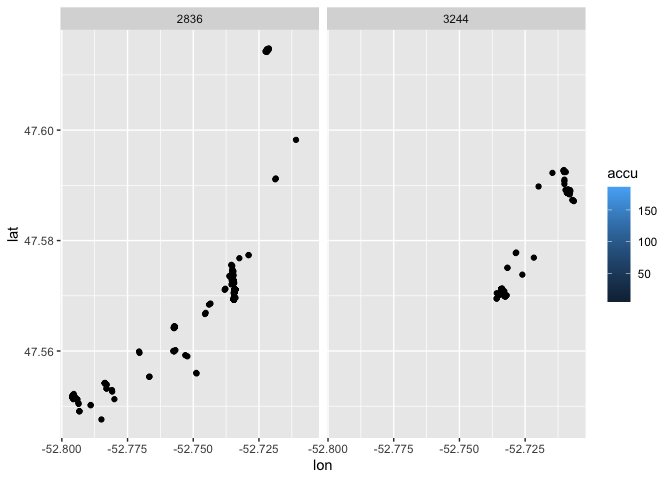
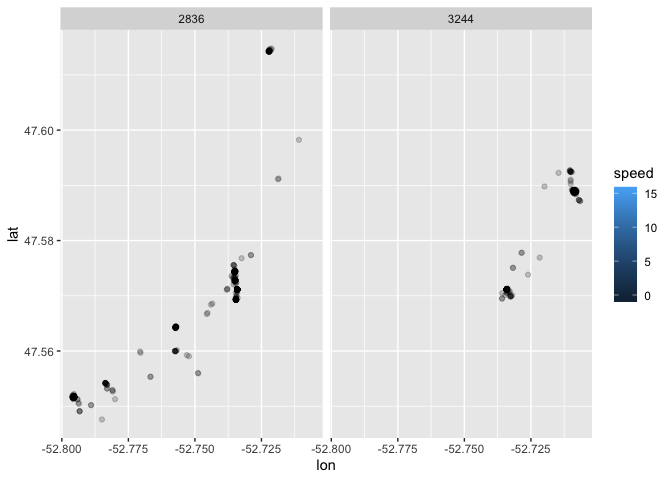
Final push

diff --git a/README.md b/README.md
@@ -1,1 +1,43 @@
-# gps_accel_ispah_2021
+# Workshop at the ISPAH 2021 Conference
+
+### Authors
+ 
+Daniel Fuller | Kevin Stanley | Christine Voss | Meghan Winters | Caislin Firth | Yan Kestens
+
+## Abstract
+
+*Purpose*  
+
+This workshop will present, discuss, and share tools, methods, and challenges for researchers interested in combining Global Positioning System (GPS) and accelerometer data. There has been considerable research and technical development in this area including the creation and distribution of tools like the Personal Activity and Location Measurement System (PALMS) and the development of new tool systems for example, Human Activity Behavior Identification Tool and data Unification System (HABITUS). Despite the development of these tools, there are still many challenges and methodological developments required before researchers are able to fully take advantage of combine GPS and accelerometer data. This workshop will provide an overview of these challenges and some of the state of the art methods in this area. 
+
+*Learning Objectives*  
+
+This 90-minute workshop will cover tools, methods, and challenges of combining GPS and accelerometer data. We will begin with a brief history of the promise of combining these data, including spatiotemporal physical activity measurement, transportation mode detection, and improved exposure measurement. We will use case studies from the INTerventions, Research, and Action in Cities Team (INTERACT) studies to evidence the advantages and difficulties of combining data. We will outline the utility and operation of off the shelf tools (ArcGIS, QGIS), code based (R, python), and bespoke methods for combining these data. We will provide methodological guidance for researchers on how to combine these data to answer research questions. For example, how to treat GPS data sparseness compared to high velocity accelerometer data? What are new metrics to understand combined spatial and physical activity data? Finally, we will outline common challenges and propose solutions to those challenges when researchers are combining these data, for example, ensuring matching time stamps and resampling data. 
+
+*Learning objective 1* Manage the complex trade-offs of combining GPS and accelerometer data.  
+
+*Learning objective 2* Understand the advantages and disadvantages of different data analysis tools.  
+
+*Learning objective 3* Use tools to combine GPS and accelerometer data. 
+
+*Learning objective 4* Learn about key spatio-temporal indicators of physical activity from combined GPS and accelerometer data. 
+
+*Target Audience*  
+
+The target audience for this workshop is students and researchers who plan to or are working on combining GPS and accelerometer data. Organization and Method of Presentation This workshop will combine three primary methods of presentation, small group discussion, application of methods, and demonstration of more advanced methods. The content and sample data for the workshop will all be publicly available so that materials can be accessed in the future. 
+
+*Conclusions*
+
+This workshop will contribute to advancing the standardization and use of combined GPS and accelerometer data. This research is crucial to healthy cities, parks, and recreation research, and to the promotion of holistic physical activity.
+
+## Download the sample data here
+
+1. [Accel Sample Data](https://www.dropbox.com/s/u8kdsmvkullbv97/accel_sample_data.csv?dl=0) 257.8MB
+2. [GPS Sample Data](https://www.dropbox.com/s/c1iaj76j2kafebh/gps_sample_data.csv?dl=0) 1.2MB
+3. [GPS Drift Data Sample](https://www.dropbox.com/s/c1w0rglr681nurn/gps_3213.csv?dl=0) 1.7MB
+
+## R Code
+
+
+## Powerpoint Presentation
+

diff --git a/wrangling.md b/wrangling.md
@@ -423,11 +423,8 @@ summary(gps_data$speed)
 ```
 
 ```r
-#We are good for speed here. No need to filter. 
-gps_data <- gps_data %>% dplyr::filter(accu < 200)
-
-gps_plot_accu <- ggplot(gps_data, aes(x = lon, y = lat,  fill = accu)) + 
-                  geom_point() + 
+gps_plot_accu <- ggplot(gps_data, aes(x = lon, y = lat, fill = speed)) + 
+                  geom_point(alpha = 0.2) + 
                   facet_wrap(~ user_id)
 plot(gps_plot_accu)
 ```
@@ -490,7 +487,7 @@ gps_drift <- gps_drift %>% dplyr::filter(speed < 55.6) #Starting dataset n = 826
 ## New dataset n = 8176 
 
 drift_plot <- ggplot(gps_drift, aes(x = lon, y = lat)) + 
-                  geom_point() 
+                  geom_point(alpha = 0.2)
 plot(drift_plot)
 ```
 
@@ -555,7 +552,7 @@ accel_gps_inner <- inner_join(accel_sec, gps_data) # Note the message about the 
 ## Joining, by = c("user_id", "record_time")
 ```
 
-We end up with only data that is included in both the accel and GPS dataset based on the second and on the user_id. So we have 5064 observations. 
+We end up with only data that is included in both the accel and GPS dataset based on the second and on the user_id. So we have 5064 observations. This is very good join. We keep almost all of our smallest dataset and add data from the larger dataset. Our smaller dataset is never going to truly add data.  
 
 
 ```r
@@ -567,7 +564,7 @@ plot(inner_plot)
 
 ![](wrangling_files/figure-html/unnamed-chunk-18-1.png)<!-- -->
 
-#### Full join
+#### Left join
 
 
 ```r
@@ -581,10 +578,10 @@ accel_gps_full <- full_join(accel_sec, gps_data) # Note the message about the jo
 ## Joining, by = c("user_id", "record_time")
 ```
 
-We end up with only data that is included in both the accel and GPS dataset based on the second and on the user_id. So we have 201041 observations. We have many many missing values. 
+We end up with only data that is included in both the accel and GPS dataset based on the second and on the user_id. So we have 201041 observations. We have many many missing values. This may or may not be what we want. 
 
 ### 4. Wear time criteria
 
 Many PA researchers use different wear time criteria to define what would be a `valid` day or week of physical activity measurement. Things like 10 hours per day, and at least 2 week days, and one weekend day. It is very very difficult to do this when combining accel and GPS data. GPS is much more intensive on the device battery and also tends to crash or have problems way more than accel. I recommend not using wear time criteria, and have successfully argued this this reviewers in at least 3 different papers. 
 
-
+# Back to PowerPoint
